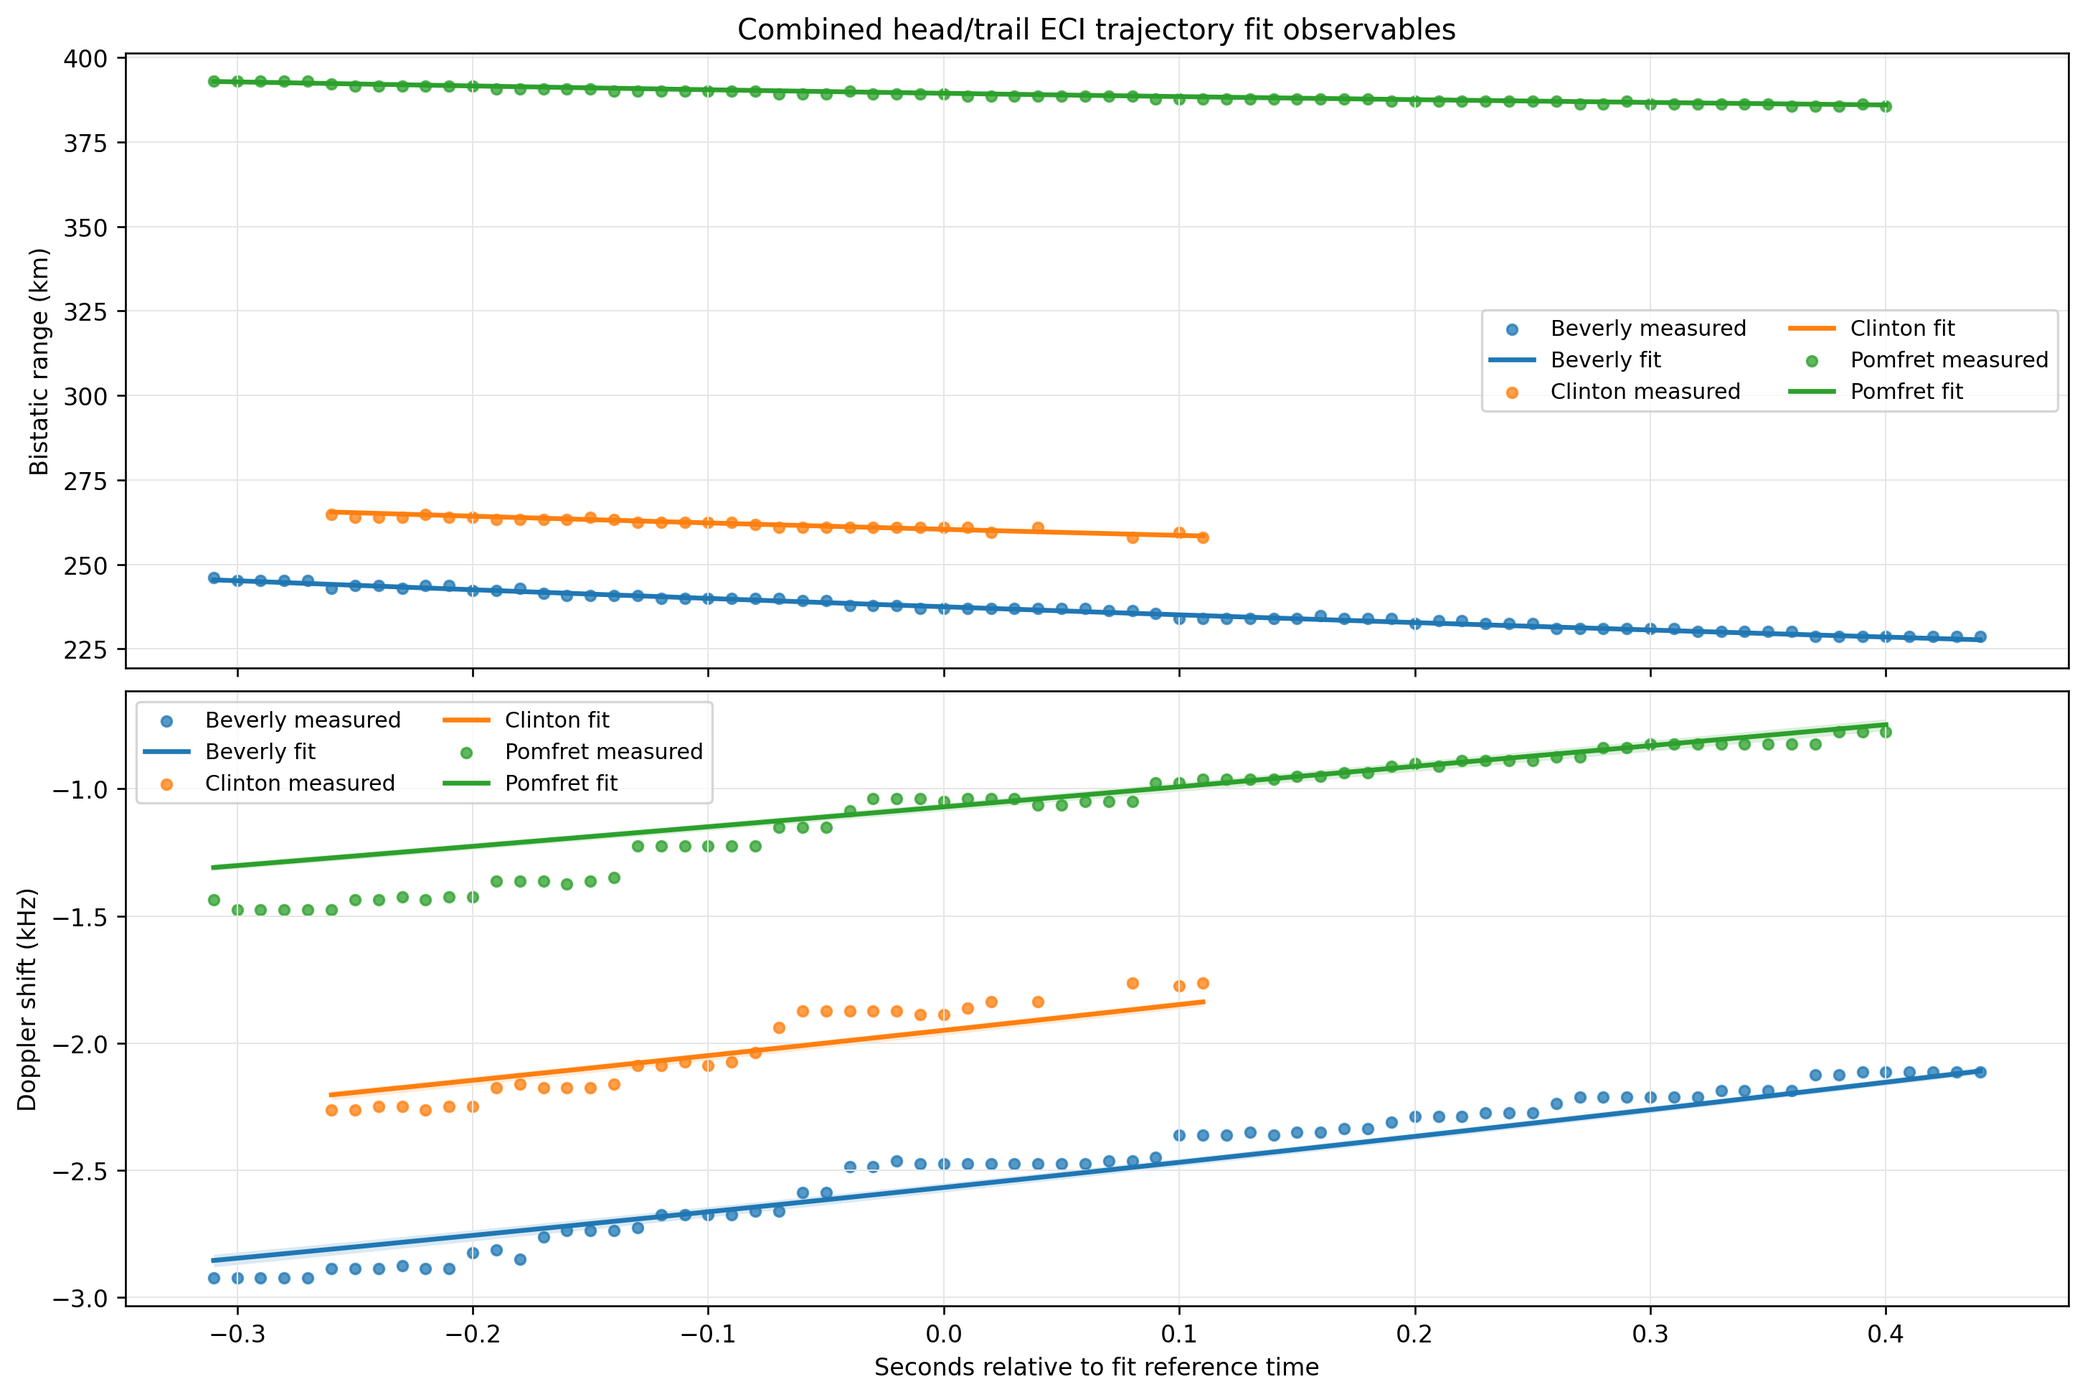
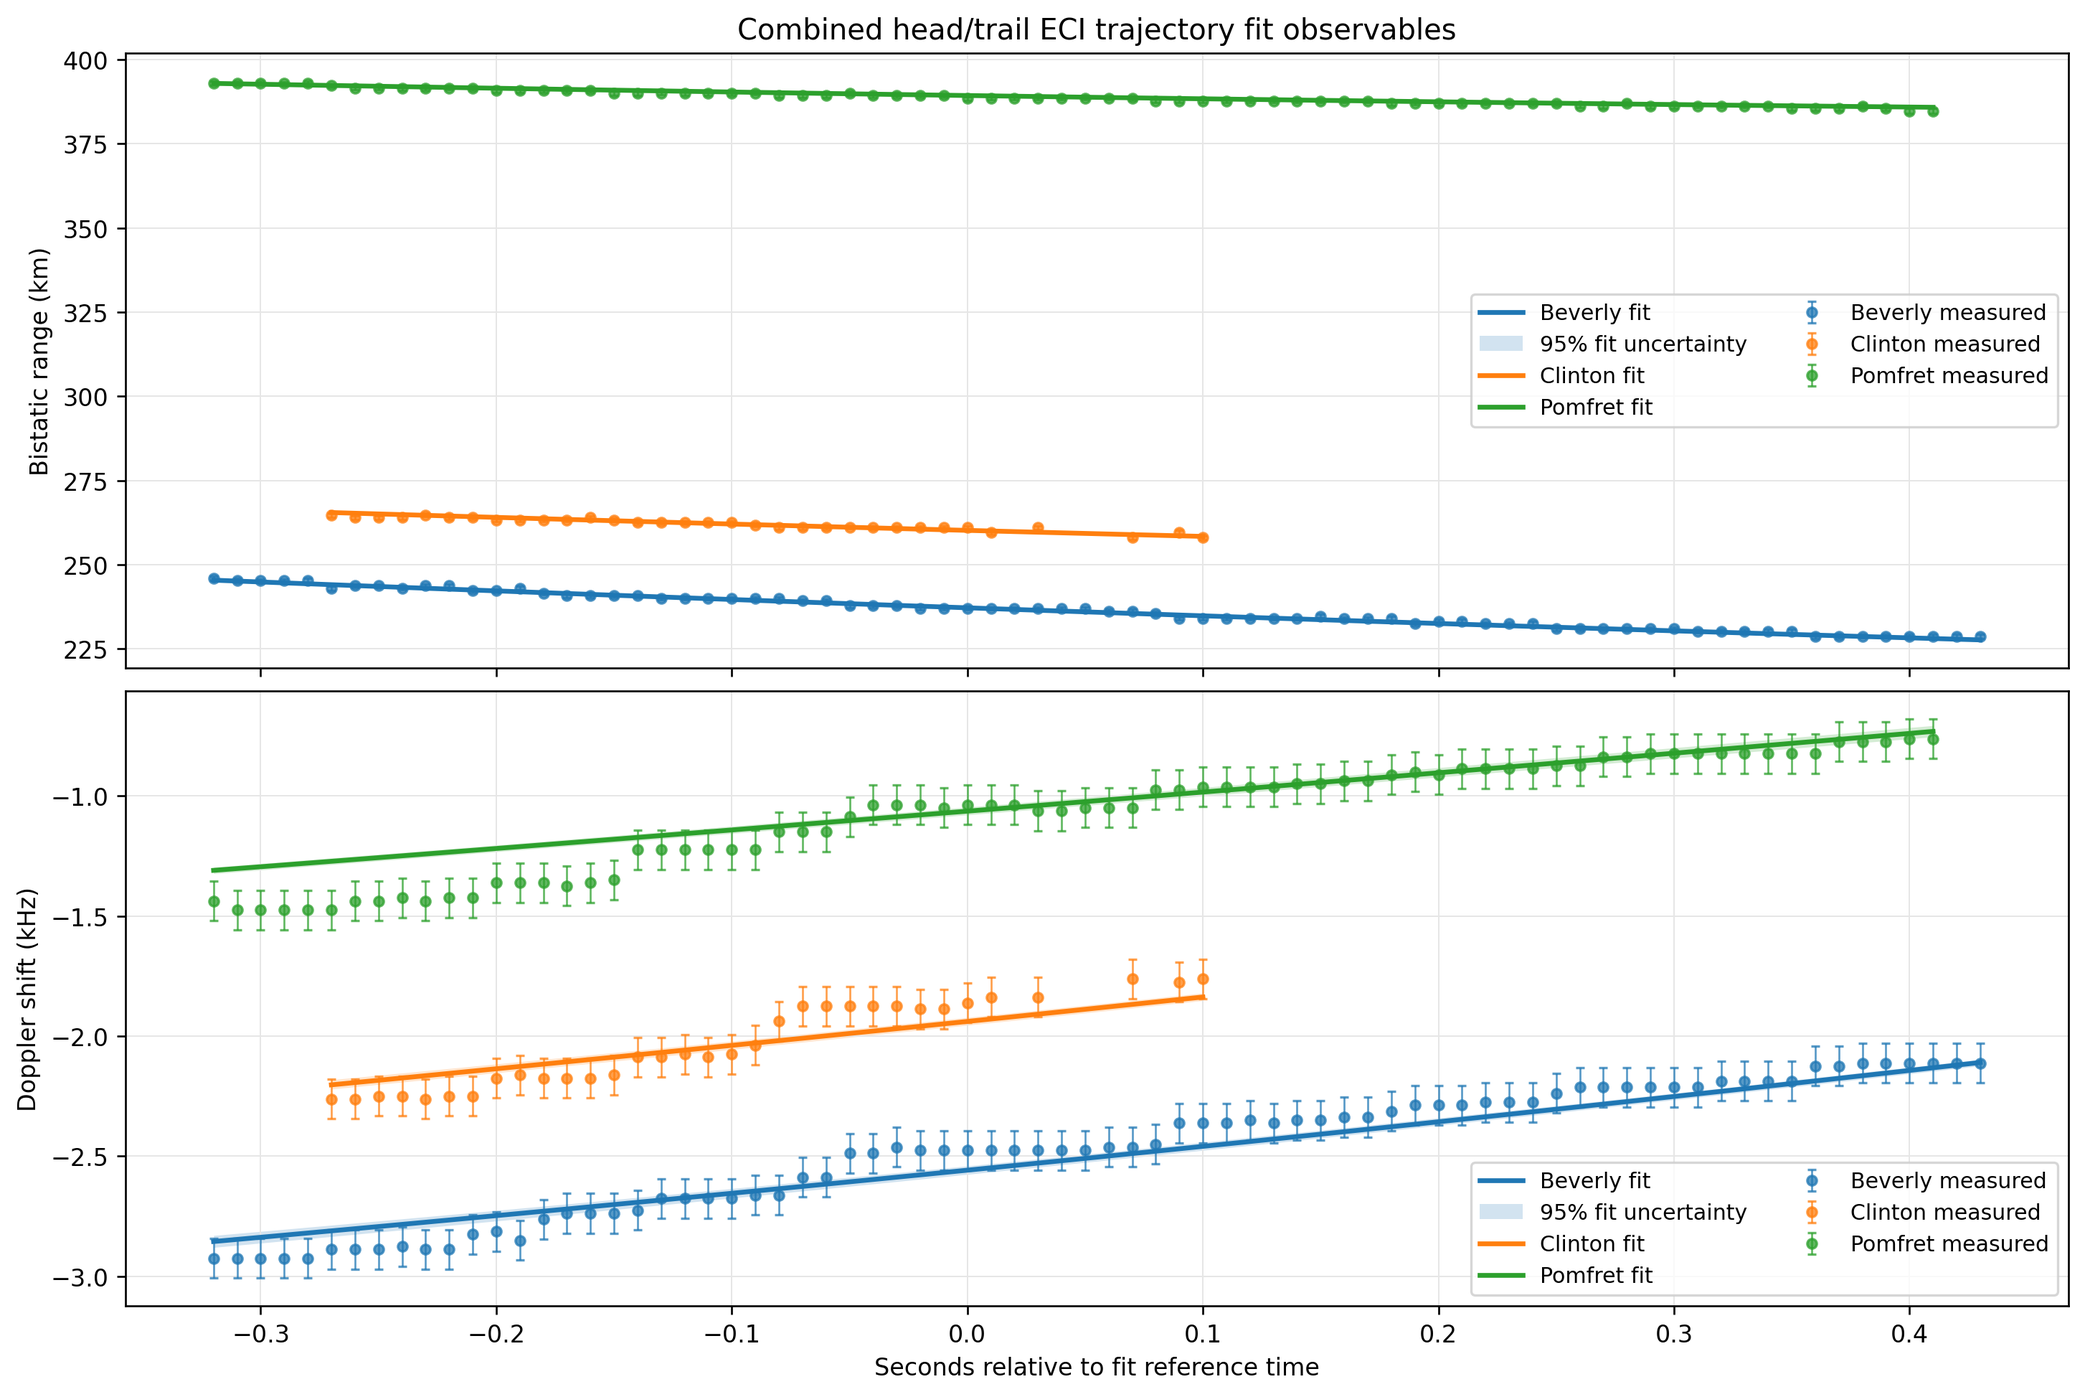
Add SNR-based head echo error model

diff --git a/fit_combined_head_trail_eci.py b/fit_combined_head_trail_eci.py
@@ -304,6 +304,133 @@ def robust_std(x: np.ndarray, floor: float = 0.0) -> float:
     return float(max(sigma, floor))
 
 
+def binned_residual_scatter(snr_db: np.ndarray, residual: np.ndarray, n_bins: int = 3) -> list[dict]:
+    snr_db = np.asarray(snr_db, dtype=float)
+    residual = np.asarray(residual, dtype=float)
+    good = np.isfinite(snr_db) & np.isfinite(residual)
+    snr_db = snr_db[good]
+    residual = residual[good]
+    if snr_db.size < 6:
+        return []
+    quantiles = np.linspace(0.0, 1.0, min(n_bins, max(2, snr_db.size // 4)) + 1)
+    edges = np.unique(np.quantile(snr_db, quantiles))
+    if edges.size < 3:
+        return []
+    rows = []
+    for i in range(edges.size - 1):
+        if i == edges.size - 2:
+            keep = (snr_db >= edges[i]) & (snr_db <= edges[i + 1])
+        else:
+            keep = (snr_db >= edges[i]) & (snr_db < edges[i + 1])
+        if np.sum(keep) < 3:
+            continue
+        rows.append(
+            {
+                "snr_db": float(np.median(snr_db[keep])),
+                "std": robust_std(residual[keep]),
+                "n": int(np.sum(keep)),
+            }
+        )
+    return rows
+
+
+def fit_snr_error_model(
+    residual: np.ndarray,
+    snr_db: np.ndarray,
+    *,
+    floor: float,
+    unit: str,
+    name: str,
+) -> dict:
+    residual = np.asarray(residual, dtype=float)
+    snr_db = np.asarray(snr_db, dtype=float)
+    good = np.isfinite(residual) & np.isfinite(snr_db)
+    residual = residual[good]
+    snr_db = snr_db[good]
+    const_sigma = robust_std(residual, floor=floor)
+    bins = binned_residual_scatter(snr_db, residual, n_bins=3)
+    model = {
+        "name": name,
+        "unit": unit,
+        "type": "constant",
+        "constant_sigma": float(const_sigma),
+        "floor_sigma": float(floor),
+        "bins": bins,
+        "reason": "insufficient binned SNR dependence",
+    }
+    if len(bins) < 3:
+        return model
+
+    x = 1.0 / np.maximum(10.0 ** (np.array([b["snr_db"] for b in bins]) / 10.0), 1e-12)
+    y = np.maximum(np.array([b["std"] for b in bins], dtype=float), floor) ** 2
+    weights = np.array([b["n"] for b in bins], dtype=float)
+    design = np.column_stack((np.ones_like(x), x))
+    lhs = design * np.sqrt(weights)[:, None]
+    rhs = y * np.sqrt(weights)
+    intercept, slope = np.linalg.lstsq(lhs, rhs, rcond=None)[0]
+    intercept = max(float(intercept), floor**2)
+    slope = float(slope)
+    const_sse = float(np.sum(weights * (y - const_sigma**2) ** 2))
+    model_sse = float(np.sum(weights * (y - (intercept + slope * x)) ** 2))
+    snr_grid = 10.0 ** (np.array([np.nanmin(snr_db), np.nanmax(snr_db)], dtype=float) / 10.0)
+    pred = np.sqrt(np.maximum(intercept + slope / np.maximum(snr_grid, 1e-12), floor**2))
+    improves = model_sse < 0.90 * const_sse
+    expected_sign = slope > 0.0
+    meaningful_dynamic_range = pred[0] > 1.15 * pred[1]
+    if expected_sign and improves and meaningful_dynamic_range:
+        model.update(
+            {
+                "type": "inverse_snr_variance",
+                "floor_term_sigma": float(np.sqrt(intercept)),
+                "snr_term_sigma_at_1_linear_snr": float(np.sqrt(max(slope, 0.0))),
+                "constant_sigma": float(const_sigma),
+                "model_sse": model_sse,
+                "constant_sse": const_sse,
+                "reason": "accepted positive inverse-SNR variance trend",
+            }
+        )
+    else:
+        model.update(
+            {
+                "candidate_floor_term_sigma": float(np.sqrt(intercept)),
+                "candidate_snr_term_sigma_at_1_linear_snr": float(np.sqrt(max(slope, 0.0))) if slope > 0 else 0.0,
+                "model_sse": model_sse,
+                "constant_sse": const_sse,
+                "reason": "constant model retained because SNR trend was weak or had the wrong sign",
+            }
+        )
+    return model
+
+
+def sigmas_from_snr_model(model: dict, snr_db: np.ndarray) -> np.ndarray:
+    snr_db = np.asarray(snr_db, dtype=float)
+    if model.get("type") != "inverse_snr_variance":
+        return np.full(snr_db.shape, float(model["constant_sigma"]), dtype=float)
+    snr_linear = np.maximum(10.0 ** (snr_db / 10.0), 1e-12)
+    floor_sigma = float(model["floor_term_sigma"])
+    snr_term = float(model["snr_term_sigma_at_1_linear_snr"])
+    return np.sqrt(floor_sigma**2 + snr_term**2 / snr_linear)
+
+
+def head_sigmas_from_models(obs: list[dict], models: dict) -> tuple[np.ndarray, np.ndarray]:
+    snr_db = np.array([float(o.get("snr_db", np.nan)) for o in obs], dtype=float)
+    return (
+        sigmas_from_snr_model(models["range"], snr_db),
+        sigmas_from_snr_model(models["doppler"], snr_db),
+    )
+
+
+def fit_head_error_models(params: np.ndarray, obs: list[dict], geom: dict, t_ref: float) -> dict:
+    pr, pd = predict_head(params, obs, geom, t_ref)
+    mr = np.array([o["range_m"] for o in obs], dtype=float)
+    md = np.array([o["doppler_hz"] for o in obs], dtype=float)
+    snr_db = np.array([float(o.get("snr_db", np.nan)) for o in obs], dtype=float)
+    return {
+        "range": fit_snr_error_model(pr - mr, snr_db, floor=150.0, unit="m", name="bistatic range"),
+        "doppler": fit_snr_error_model(pd - md, snr_db, floor=25.0, unit="Hz", name="Doppler"),
+    }
+
+
 def empirical_measurement_sigmas(params: np.ndarray, obs: list[dict], trail_rows: list[dict], trail_gcrs: np.ndarray, geom: dict, t_ref: float) -> dict:
     pr, pd = predict_head(params, obs, geom, t_ref)
     mr = np.array([o["range_m"] for o in obs], dtype=float)
@@ -358,7 +485,7 @@ def summarize_fit(params, cov, obs, trail_rows, trail_gcrs, geom, t_ref):
     }
 
 
-def write_json(out_dir, args, params, cov, s2, summary, obs, trail_rows, rejected, t_ref, empirical_sigmas=None):
+def write_json(out_dir, args, params, cov, s2, summary, obs, trail_rows, rejected, t_ref, empirical_sigmas=None, head_error_models=None):
     settings = {k: str(v) if isinstance(v, Path) else v for k, v in vars(args).items()}
     out = {
         "schema": "new_england_bolide.combined_head_trail_eci.v1",
@@ -418,6 +545,7 @@ def write_json(out_dir, args, params, cov, s2, summary, obs, trail_rows, rejecte
             for r in rejected
         ],
         "empirical_measurement_sigmas": empirical_sigmas or {},
+        "head_snr_error_models": head_error_models or {},
         "settings": settings,
     }
     out_path = out_dir / "combined_head_trail_eci_fit.json"
@@ -463,7 +591,7 @@ def sample_enu_components(samples: np.ndarray, t_grid, t_ref: float, tx0: np.nda
     return np.asarray(out)
 
 
-def plot_range_doppler(out, params, cov, obs, geom, t_ref):
+def plot_range_doppler(out, params, cov, obs, geom, t_ref, head_error_models=None):
     samples = sample_params(params, cov, n=300)
     stations = sorted(set(o["station"] for o in obs))
     fig, axes = plt.subplots(2, 1, figsize=(12, 8), sharex=True, constrained_layout=True)
@@ -475,6 +603,13 @@ def plot_range_doppler(out, params, cov, obs, geom, t_ref):
         tr = t - t_ref
         meas_r = np.array([o["range_m"] for o in so]) / 1000.0
         meas_d = np.array([o["doppler_hz"] for o in so]) / 1000.0
+        if head_error_models:
+            range_sigma_m, doppler_sigma_hz = head_sigmas_from_models(so, head_error_models)
+            range_yerr_km = range_sigma_m / 1000.0
+            doppler_yerr_khz = doppler_sigma_hz / 1000.0
+        else:
+            range_yerr_km = None
+            doppler_yerr_khz = None
         pr, pd = predict_head(params, so, geom, t_ref)
         sr = []
         sd = []
@@ -487,12 +622,52 @@ def plot_range_doppler(out, params, cov, obs, geom, t_ref):
         rlo, rhi = np.percentile(sr, [2.5, 97.5], axis=0)
         dlo, dhi = np.percentile(sd, [2.5, 97.5], axis=0)
         label = short_station_name(station)
-        axes[0].scatter(tr, meas_r, s=18, color=color, alpha=0.75, label=f"{label} measured")
+        axes[0].errorbar(
+            tr,
+            meas_r,
+            yerr=range_yerr_km,
+            fmt="o",
+            ms=4.0,
+            color=color,
+            ecolor=color,
+            elinewidth=0.8,
+            capsize=1.8,
+            alpha=0.75,
+            label=f"{label} measured",
+        )
         axes[0].plot(tr, pr / 1000.0, color=color, lw=2.0, label=f"{label} fit")
-        axes[0].fill_between(tr, rlo, rhi, color=color, alpha=0.16, linewidth=0)
-        axes[1].scatter(tr, meas_d, s=18, color=color, alpha=0.75, label=f"{label} measured")
+        axes[0].fill_between(
+            tr,
+            rlo,
+            rhi,
+            color=color,
+            alpha=0.20,
+            linewidth=0,
+            label="95% fit uncertainty" if si == 0 else None,
+        )
+        axes[1].errorbar(
+            tr,
+            meas_d,
+            yerr=doppler_yerr_khz,
+            fmt="o",
+            ms=4.0,
+            color=color,
+            ecolor=color,
+            elinewidth=0.8,
+            capsize=1.8,
+            alpha=0.75,
+            label=f"{label} measured",
+        )
         axes[1].plot(tr, pd / 1000.0, color=color, lw=2.0, label=f"{label} fit")
-        axes[1].fill_between(tr, dlo, dhi, color=color, alpha=0.16, linewidth=0)
+        axes[1].fill_between(
+            tr,
+            dlo,
+            dhi,
+            color=color,
+            alpha=0.20,
+            linewidth=0,
+            label="95% fit uncertainty" if si == 0 else None,
+        )
     axes[0].set_title("Combined head/trail ECI trajectory fit observables")
     axes[0].set_ylabel("Bistatic range (km)")
     axes[1].set_ylabel("Doppler shift (kHz)")
@@ -500,6 +675,45 @@ def plot_range_doppler(out, params, cov, obs, geom, t_ref):
     for ax in axes:
         ax.grid(True, color="0.9", lw=0.6)
         ax.legend(ncol=2, fontsize=9)
+    fig.savefig(out, dpi=240, bbox_inches="tight")
+    plt.close(fig)
+
+
+def plot_head_error_model(out, params, obs, geom, t_ref, head_error_models):
+    pr, pd = predict_head(params, obs, geom, t_ref)
+    snr_db = np.array([float(o.get("snr_db", np.nan)) for o in obs], dtype=float)
+    residuals = [
+        ("Range", pr - np.array([o["range_m"] for o in obs], dtype=float), head_error_models["range"]),
+        ("Doppler", pd - np.array([o["doppler_hz"] for o in obs], dtype=float), head_error_models["doppler"]),
+    ]
+    fig, axes = plt.subplots(1, 2, figsize=(12, 4.6), constrained_layout=True)
+    for ax, (label, resid, model) in zip(axes, residuals, strict=True):
+        good = np.isfinite(snr_db) & np.isfinite(resid)
+        ax.scatter(snr_db[good], np.abs(resid[good]), s=22, color="0.35", alpha=0.55, label="absolute residual")
+        bins = model.get("bins", [])
+        if bins:
+            bx = np.array([b["snr_db"] for b in bins], dtype=float)
+            by = np.array([b["std"] for b in bins], dtype=float)
+            ax.plot(bx, by, "o", color="C1", ms=7, label="binned robust std")
+        if np.any(good):
+            xgrid = np.linspace(float(np.nanmin(snr_db[good])), float(np.nanmax(snr_db[good])), 200)
+            ygrid = sigmas_from_snr_model(model, xgrid)
+            ax.plot(xgrid, ygrid, color="C3", lw=2.2, label=f"{model['type']} model")
+        ax.set_title(f"{label} error model")
+        ax.set_xlabel("Matched-filter SNR (dB)")
+        ax.set_ylabel(f"Residual / standard deviation ({model['unit']})")
+        ax.grid(True, color="0.9", lw=0.6)
+        ax.legend(fontsize=8)
+        ax.text(
+            0.02,
+            0.96,
+            model.get("reason", ""),
+            transform=ax.transAxes,
+            va="top",
+            ha="left",
+            fontsize=8,
+            bbox={"facecolor": "white", "edgecolor": "0.8", "alpha": 0.8},
+        )
     fig.savefig(out, dpi=240, bbox_inches="tight")
     plt.close(fig)
 
@@ -759,6 +973,8 @@ def run(args):
         max_nfev=args.max_nfev,
     )
     empirical_sigmas = empirical_measurement_sigmas(res2.x, obs, trail_rows, trail_gcrs, geom, t_ref)
+    head_error_models = fit_head_error_models(res2.x, obs, geom, t_ref)
+    head_range_sigma, head_doppler_sigma = head_sigmas_from_models(obs, head_error_models)
     print(
         "Empirical sigmas: "
         f"range {empirical_sigmas['head_range_sigma_m']:.1f} m, "
@@ -766,8 +982,14 @@ def run(args):
         f"trail {empirical_sigmas['trail_position_sigma_m']:.1f} m",
         flush=True,
     )
+    print(
+        "Head SNR error models: "
+        f"range {head_error_models['range']['type']} ({head_error_models['range']['reason']}), "
+        f"doppler {head_error_models['doppler']['type']} ({head_error_models['doppler']['reason']})",
+        flush=True,
+    )
     trail_sigma_empirical = np.full(len(trail_rows), empirical_sigmas["trail_position_sigma_m"], dtype=float)
-    print("Final combined fit with empirical measurement scales", flush=True)
+    print("Final combined fit with SNR-dependent head measurement scales", flush=True)
     res3 = least_squares(
         combined_residuals,
         res2.x,
@@ -777,8 +999,8 @@ def run(args):
             trail_gcrs,
             geom,
             t_ref,
-            empirical_sigmas["head_range_sigma_m"],
-            empirical_sigmas["head_doppler_sigma_hz"],
+            head_range_sigma,
+            head_doppler_sigma,
             trail_sigma_empirical,
             args,
         ),
@@ -787,21 +1009,68 @@ def run(args):
         max_nfev=args.max_nfev,
     )
     empirical_sigmas = empirical_measurement_sigmas(res3.x, obs, trail_rows, trail_gcrs, geom, t_ref)
+    head_error_models = fit_head_error_models(res3.x, obs, geom, t_ref)
+    head_range_sigma, head_doppler_sigma = head_sigmas_from_models(obs, head_error_models)
     trail_sigma_empirical = np.full(len(trail_rows), empirical_sigmas["trail_position_sigma_m"], dtype=float)
+    print("Polishing combined fit with final SNR-dependent head scales", flush=True)
+    res3 = least_squares(
+        combined_residuals,
+        res3.x,
+        args=(
+            obs,
+            trail_rows,
+            trail_gcrs,
+            geom,
+            t_ref,
+            head_range_sigma,
+            head_doppler_sigma,
+            trail_sigma_empirical,
+            args,
+        ),
+        loss="soft_l1",
+        f_scale=2.0,
+        max_nfev=args.max_nfev,
+    )
+    empirical_sigmas = empirical_measurement_sigmas(res3.x, obs, trail_rows, trail_gcrs, geom, t_ref)
+    head_error_models = fit_head_error_models(res3.x, obs, geom, t_ref)
+    head_range_sigma, head_doppler_sigma = head_sigmas_from_models(obs, head_error_models)
+    trail_sigma_empirical = np.full(len(trail_rows), empirical_sigmas["trail_position_sigma_m"], dtype=float)
+    print(
+        "Final head SNR error models: "
+        f"range {head_error_models['range']['type']} ({head_error_models['range']['reason']}), "
+        f"doppler {head_error_models['doppler']['type']} ({head_error_models['doppler']['reason']})",
+        flush=True,
+    )
     print("Computing covariance and summary", flush=True)
     cov, s2 = covariance_from_jacobian(res3)
     summary = summarize_fit(res3.x, cov, obs, trail_rows, trail_gcrs, geom, t_ref)
-    json_path = write_json(out_dir, args, res3.x, cov, s2, summary, obs, trail_rows, rejected_trail, t_ref, empirical_sigmas=empirical_sigmas)
+    json_path = write_json(
+        out_dir,
+        args,
+        res3.x,
+        cov,
+        s2,
+        summary,
+        obs,
+        trail_rows,
+        rejected_trail,
+        t_ref,
+        empirical_sigmas=empirical_sigmas,
+        head_error_models=head_error_models,
+    )
     if not args.skip_plots:
         print("Writing plots", flush=True)
         range_plot = out_dir / "combined_head_trail_range_doppler_fit.png"
+        error_model_plot = out_dir / "head_echo_snr_error_model.png"
         altitude_plot = out_dir / "combined_head_trail_altitude.png"
         map_plot = out_dir / "combined_head_trail_map.png"
-        plot_range_doppler(range_plot, res3.x, cov, obs, geom, t_ref)
+        plot_range_doppler(range_plot, res3.x, cov, obs, geom, t_ref, head_error_models=head_error_models)
+        plot_head_error_model(error_model_plot, res3.x, obs, geom, t_ref, head_error_models)
         plot_altitude(altitude_plot, res3.x, cov, obs, trail_rows, t_ref, geom, all_trail_rows=all_trail_rows, rejected_trail=rejected_trail)
         plot_map(map_plot, res3.x, cov, obs, trail_rows, t_ref, all_trail_rows=all_trail_rows, rejected_trail=rejected_trail)
         report_dir = Path(args.report_fig_dir)
         shutil.copy2(range_plot, report_dir / range_plot.name)
+        shutil.copy2(error_model_plot, report_dir / error_model_plot.name)
         shutil.copy2(altitude_plot, report_dir / altitude_plot.name)
         shutil.copy2(map_plot, report_dir / map_plot.name)
     print(f"Wrote {json_path}")
